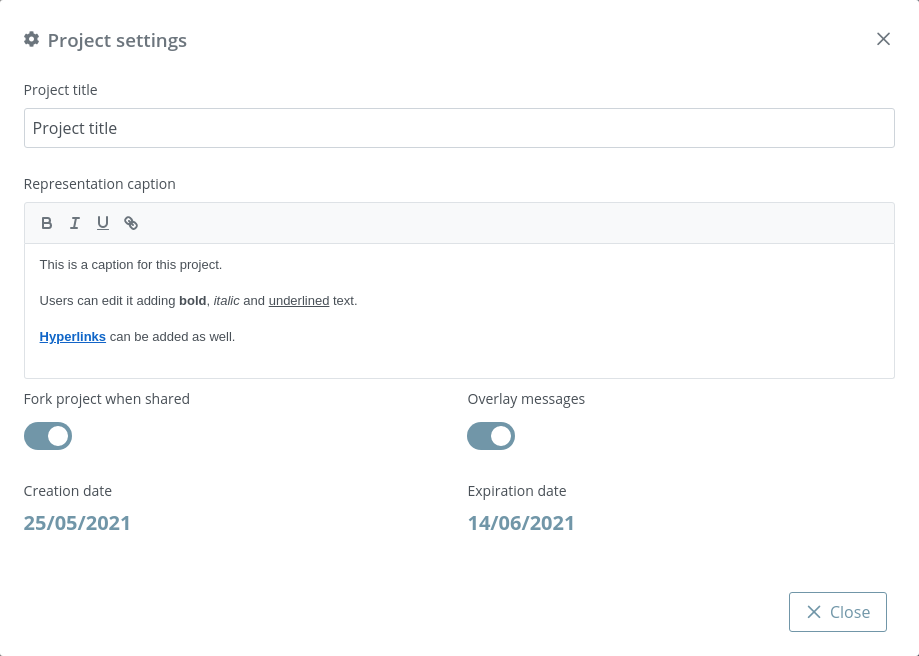
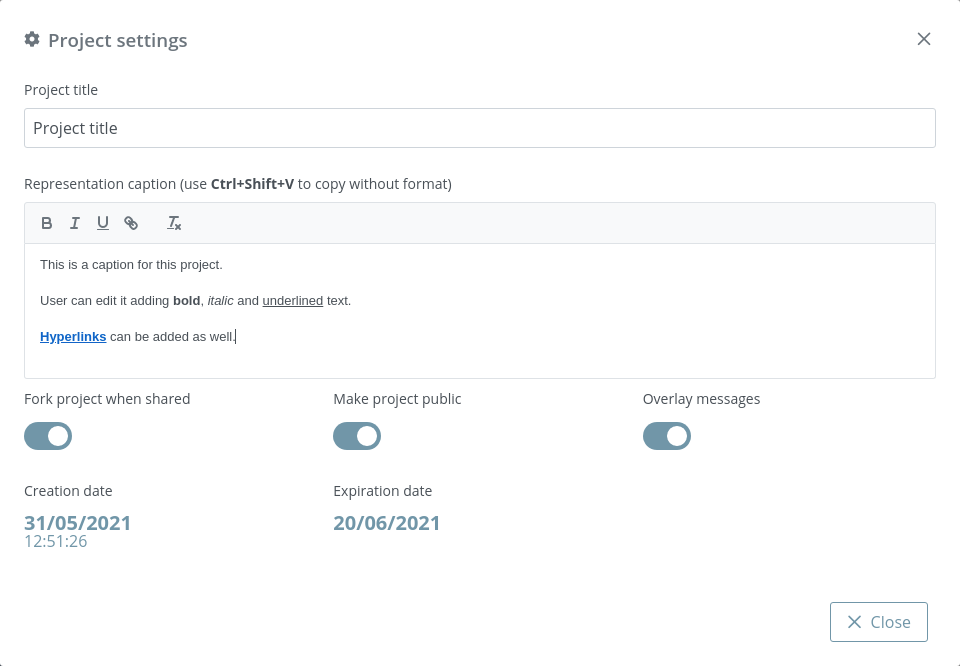
Bug fixes

diff --git a/3drs-docs/docs/source/edit.md b/3drs-docs/docs/source/edit.md
@@ -185,8 +185,9 @@ Clicking this button **opens a modal dialog** to edit the **project settings**:
 ![](_static/edit/edit13b.png)
 
 * **Project title:** title of the project. If this field is empty, neither title nor caption will be shown in the project once shared
-* **Representation caption:** representative information of the project such as description, author(s), links and so on.
+* **Representation caption:** representative information of the project such as description, author(s), links and so on. Beware of copying **formatted text**, it can give problems. It's strongly reccomended to paste text without formatting (via **Ctrl+Shift+V** or **Tx** button).
 * **Fork project when shared:** if enabled, the project will be able to be forked once shared. That means that anyone can make an editable copy of the project.
+* **Make project public:** if enabled, the project will be shown in the home page list along with the rest of latest public projects.
 * **Overlay messages:** there are notification messages for almost each action in the application. With this button they can be enabled / disabled. Note that although this option is enabled, the expiration notification will still appear as well as some error messages and the navigation mode prompt.
 * **Creation date:** date of creation of the project.
 * **Expiration date:** date of expiration of the project. This date will disappear once the project is shared for the first time, since then the project will be persistent.
@@ -1064,7 +1065,7 @@ The **Share button**, located at the top right of the **stage**, opens a modal w
 
 ![](_static/edit/edit89.png)
 
-In this window, users must follow three steps:
+In this window, users must follow four steps:
 
 ### Draft
 
@@ -1075,6 +1076,10 @@ Note that as a **draft version** of the final **Shared page**, some of the actio
 ### Fork 
 
 Be sure to agree with the **fork permissions**. Note that once the project is shared, if fork is enabled, every user with the Share representation link **will be able to fork and edit it**.
+
+### Public 
+
+Be sure to agree with the **public permissions**. Note that once the project is shared, if public is enabled, the shared project will be available from the Last projects list in the home page.
 
 ### Share
 
